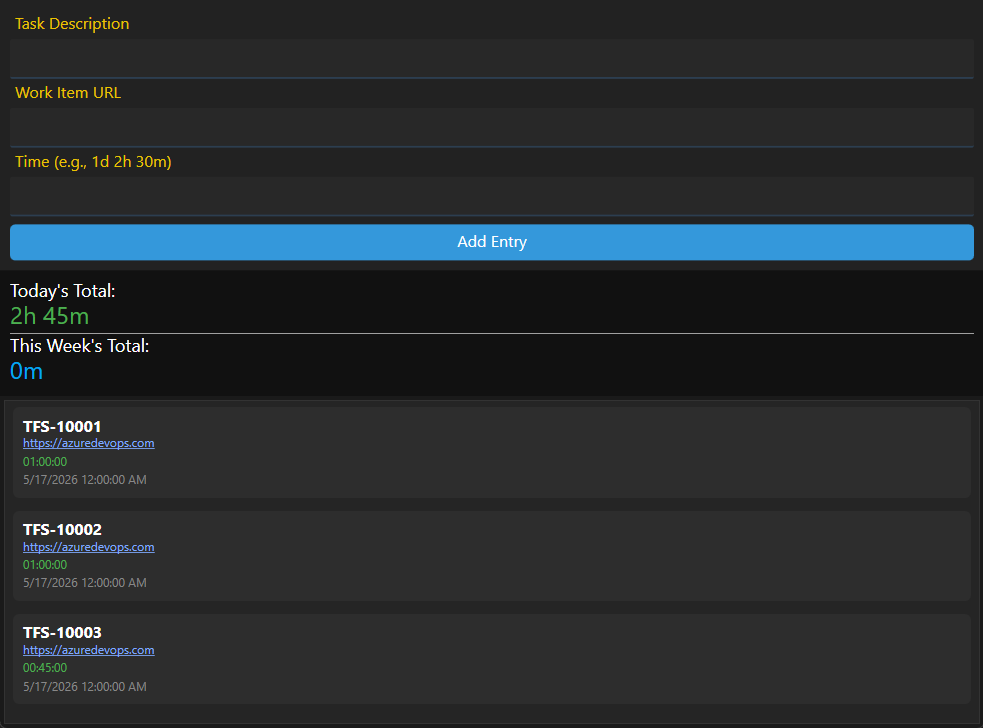
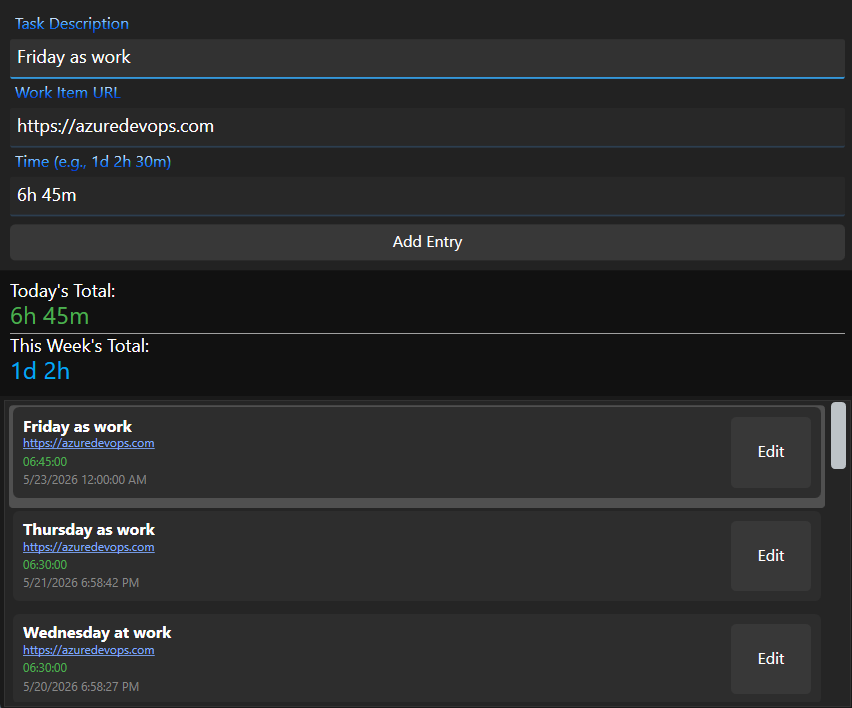
readme

diff --git a/README.md b/README.md
@@ -2,9 +2,11 @@
 
 ## 💻 WPF - Time Logger
 
-![Example](./Screenshot.png)
+![Main](./Screenshot.png)
 
-![Data](./Screenshot2.png)
+![Edit](./Screenshot2.png)
+
+![Data](./Screenshot3.png)
 
 **Dependencies**
 
